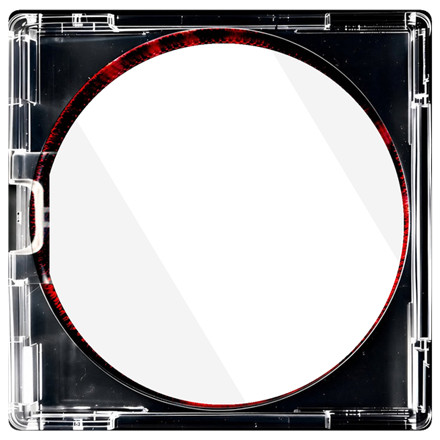
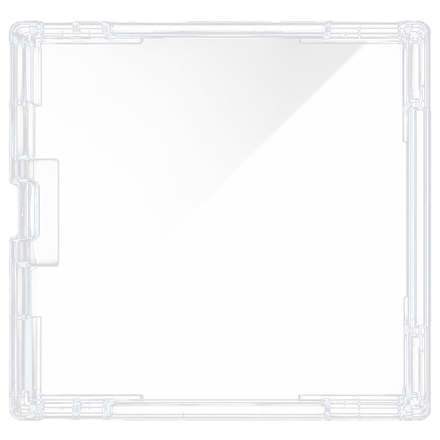
fix(#126): stationary tray hub, drop rectangular shadows on app jewel case

diff --git a/src/src/lib/components/Spindle.svelte b/src/src/lib/components/Spindle.svelte
@@ -147,11 +147,8 @@
   .tray {
     position: absolute;
     inset: 0;
-    border-radius: 5px;
     background: var(--tray) center / cover;
-    box-shadow:
-      0 22px 50px rgb(0 0 0 / 0.85),
-      0 0 46px rgb(var(--glow) / 0.2);
+    filter: drop-shadow(0 22px 40px rgb(0 0 0 / 0.85));
   }
   .disc {
     position: absolute;
@@ -170,27 +167,18 @@
     position: absolute;
     inset: 0;
     overflow: hidden;
-    border-radius: 5px;
     background: var(--lid) center / cover;
     transform-origin: 0% 50%;
     transform: rotateY(0deg);
-    box-shadow: 0 10px 25px rgb(0 0 0 / 0.5);
+    filter: drop-shadow(0 10px 20px rgb(0 0 0 / 0.45));
     transition:
+      filter 0.9s ease,
       transform 1.05s
-        linear(0, 0.03, 0.109, 0.218, 0.344, 0.475, 0.603, 0.72, 0.823, 0.909, 0.979, 1.031, 1.068, 1.092, 1.104, 1.107, 1.103, 1.094, 1.082, 1.068, 1.054, 1.041, 1.028, 1.018, 1.009, 1.002, 0.996, 0.992, 0.99, 0.989, 0.989, 0.989, 1),
-      box-shadow 0.9s ease;
-  }
-  /* Specular reflections on the acrylic. */
-  .lid::after {
-    content: "";
-    position: absolute;
-    inset: 0;
-    background: linear-gradient(135deg, rgb(255 255 255 / 0.24) 0%, transparent 42%, rgb(255 255 255 / 0.09) 58%, transparent 100%);
-    pointer-events: none;
+        linear(0, 0.03, 0.109, 0.218, 0.344, 0.475, 0.603, 0.72, 0.823, 0.909, 0.979, 1.031, 1.068, 1.092, 1.104, 1.107, 1.103, 1.094, 1.082, 1.068, 1.054, 1.041, 1.028, 1.018, 1.009, 1.002, 0.996, 0.992, 0.99, 0.989, 0.989, 0.989, 1);
   }
   .open .lid {
     transform: rotateY(-65deg);
-    box-shadow: 18px 24px 50px rgb(0 0 0 / 0.75);
+    filter: drop-shadow(18px 24px 40px rgb(0 0 0 / 0.75));
   }
   /* Sealed and clickable: the lid gives a little under the cursor. */
   .interactive.sealed:hover .lid {

diff --git a/scripts/update_site_assets.py b/scripts/update_site_assets.py
@@ -38,7 +38,7 @@ bright_lid = arr_lid.max(axis=2)
 
 mask_bg_lid = (bright_lid < 8)
 labeled_lid, _ = ndi.label(mask_bg_lid)
-corner_labels_lid = set([labeled_lid[0, 0], labeled_lid[0, -1], labeled[-1, 0], labeled[-1, -1]])
+corner_labels_lid = set([labeled_lid[0, 0], labeled_lid[0, -1], labeled_lid[-1, 0], labeled_lid[-1, -1]])
 is_bg_lid = np.isin(labeled_lid, list(corner_labels_lid))
 
 alpha_lid = np.zeros_like(bright_lid)
